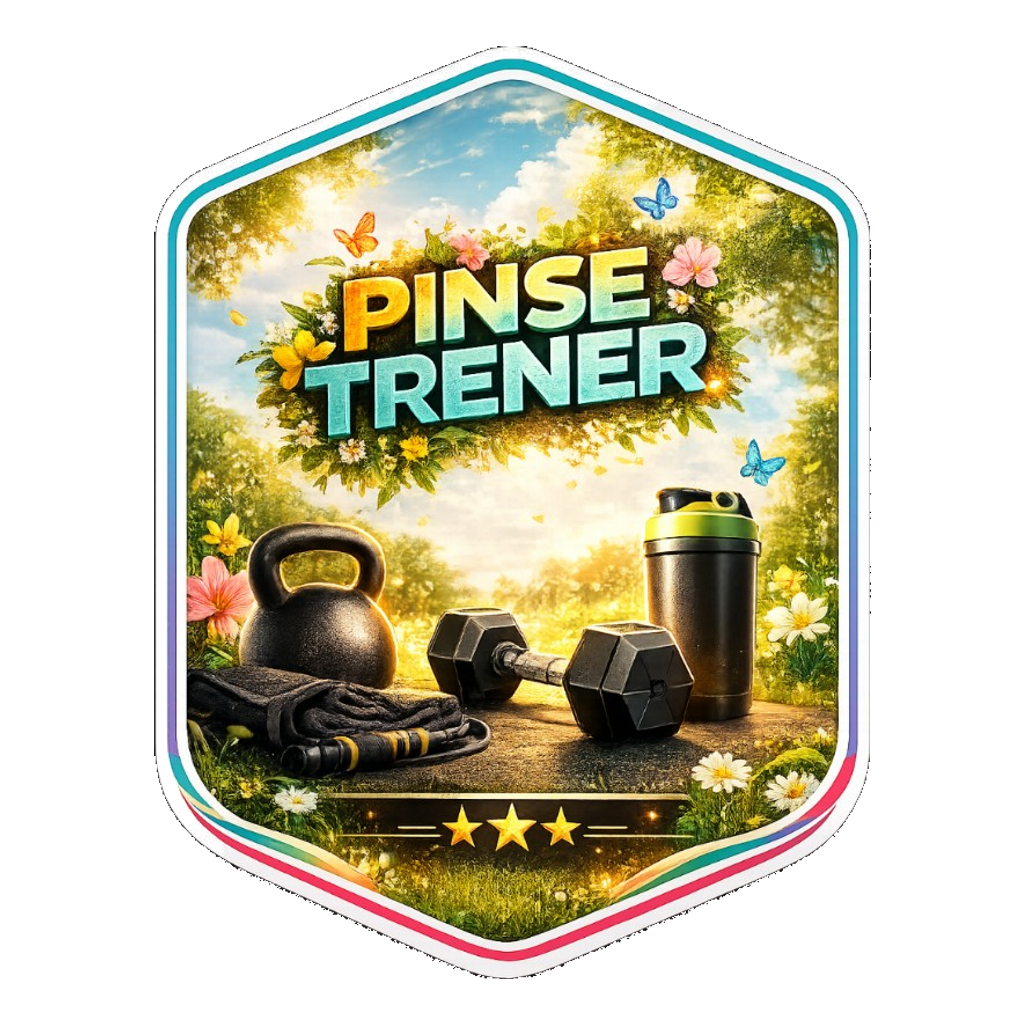
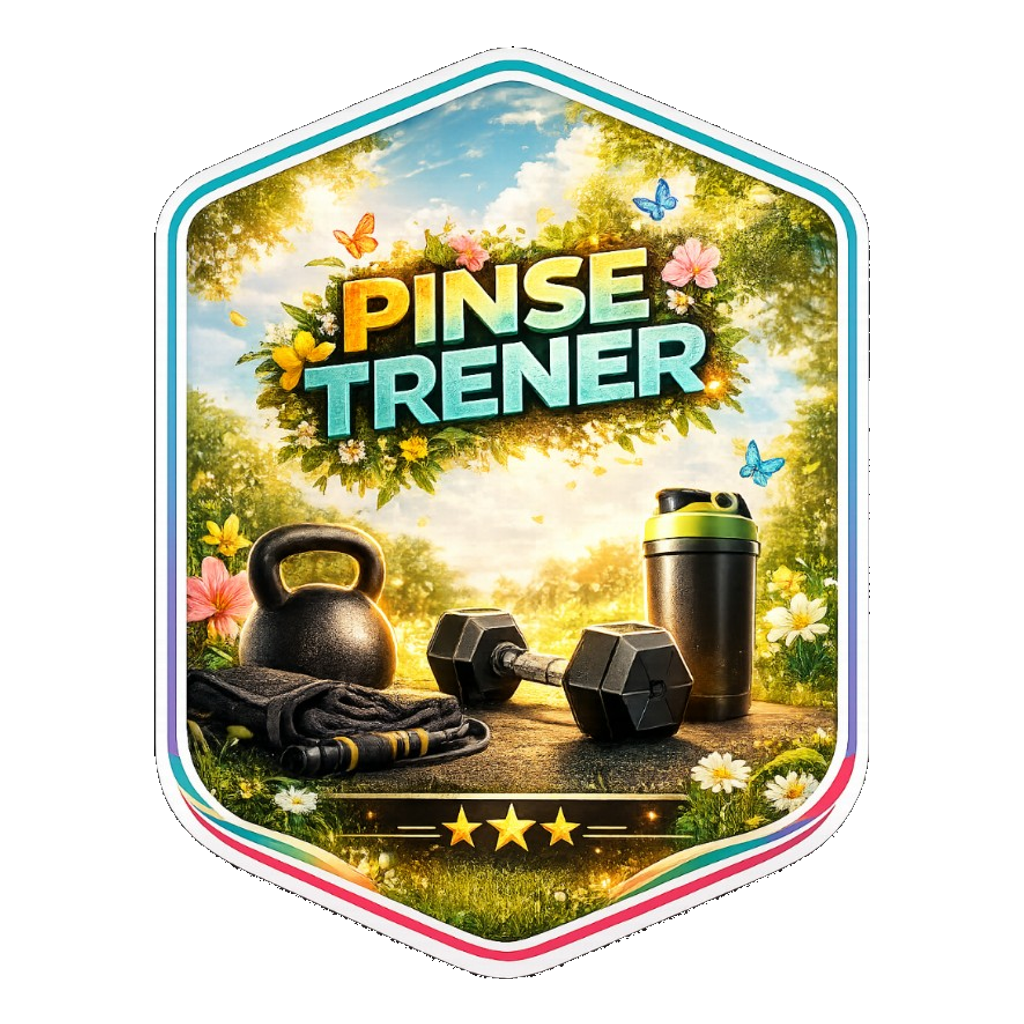
Fix Pinsetrener badge hex edges
Re-export with black-only edge stripping so the white hex frame is preserved; add dedicated script and bump cache to 44.

diff --git a/src/app/badgeAssets.ts b/src/app/badgeAssets.ts
@@ -1,5 +1,5 @@
 /** Felles badge-bilder (PNG 1024×1024, normalisert visuell størrelse). */
-export const BADGE_ASSET_VERSION = "43";
+export const BADGE_ASSET_VERSION = "44";
 
 export function badgeAssetUrl(path: string): string {
   const base = path.split("?")[0] || path;
